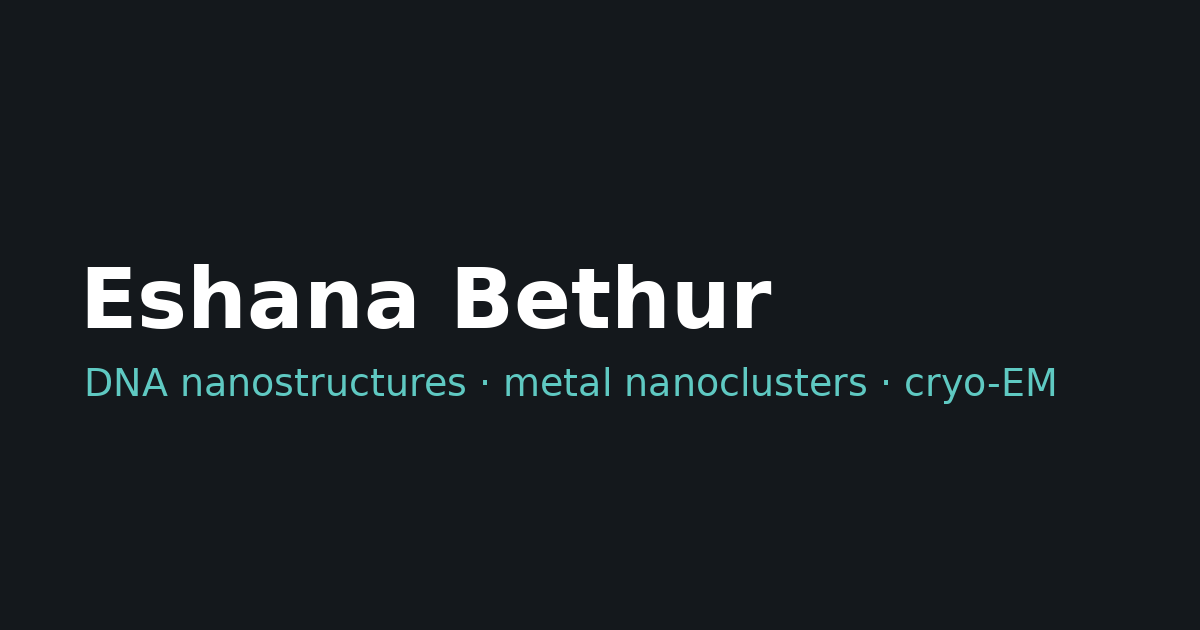
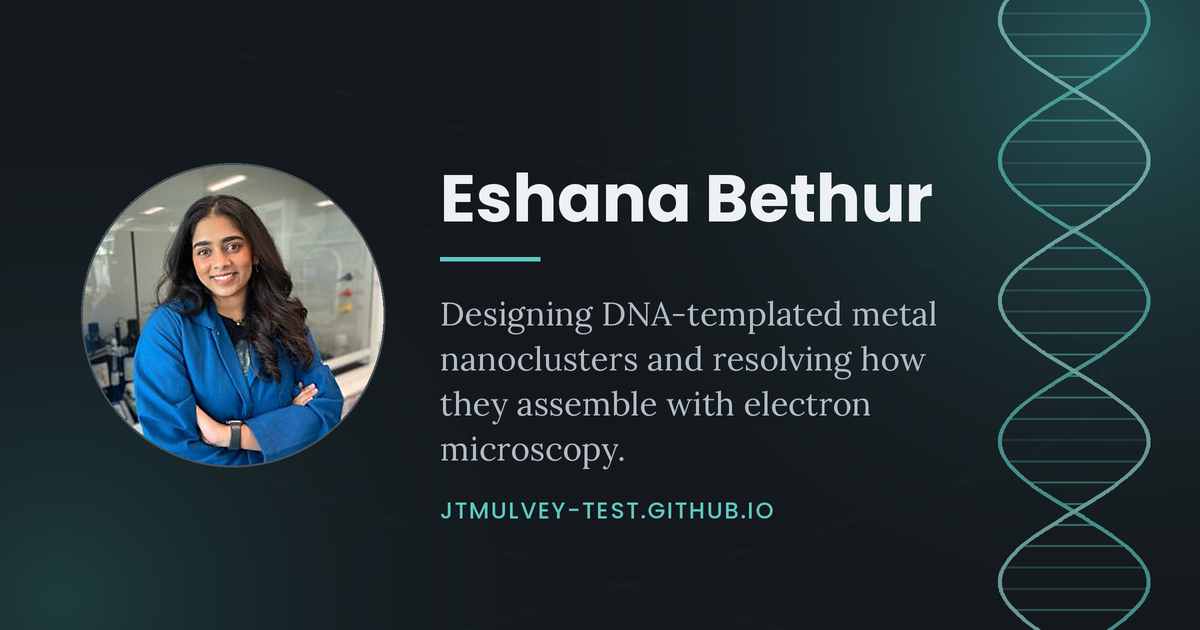
added highlight card

diff --git a/index.html b/index.html
@@ -19,20 +19,20 @@
 <link rel="stylesheet" href="assets/css/layout.css">
 <link rel="stylesheet" href="assets/css/cards.css">
 <link rel="stylesheet" href="assets/css/mobile.css">
-<link rel="canonical" href="https://eshanabethur.github.io/">
+<link rel="canonical" href="https://jtmulvey-test.github.io/">
 <meta property="og:type" content="website">
 <meta property="og:site_name" content="Eshana Bethur">
-<meta property="og:url" content="https://eshanabethur.github.io/">
+<meta property="og:url" content="https://jtmulvey-test.github.io/">
 <meta property="og:title" content="Eshana Bethur — Research">
 <meta property="og:description" content="DNA nanostructures, metal nanoclusters, and cryogenic electron microscopy.">
-<meta property="og:image" content="https://eshanabethur.github.io/assets/img/site/og-image.png">
+<meta property="og:image" content="https://jtmulvey-test.github.io/assets/img/site/og-image.png">
 <meta property="og:image:width" content="1200">
 <meta property="og:image:height" content="630">
 <meta property="og:image:alt" content="Eshana Bethur — DNA nanostructures, metal nanoclusters, cryo-EM.">
 <meta name="twitter:card" content="summary_large_image">
 <meta name="twitter:title" content="Eshana Bethur — Research">
 <meta name="twitter:description" content="DNA nanostructures, metal nanoclusters, and cryogenic electron microscopy.">
-<meta name="twitter:image" content="https://eshanabethur.github.io/assets/img/site/og-image.png">
+<meta name="twitter:image" content="https://jtmulvey-test.github.io/assets/img/site/og-image.png">
 </head>
 <body>
 

diff --git a/contact.html b/contact.html
@@ -19,20 +19,20 @@
 <link rel="stylesheet" href="assets/css/layout.css">
 <link rel="stylesheet" href="assets/css/cards.css">
 <link rel="stylesheet" href="assets/css/mobile.css">
-<link rel="canonical" href="https://eshanabethur.github.io/contact.html">
+<link rel="canonical" href="https://jtmulvey-test.github.io/contact.html">
 <meta property="og:type" content="website">
 <meta property="og:site_name" content="Eshana Bethur">
-<meta property="og:url" content="https://eshanabethur.github.io/contact.html">
+<meta property="og:url" content="https://jtmulvey-test.github.io/contact.html">
 <meta property="og:title" content="Contact — Eshana Bethur">
 <meta property="og:description" content="Get in touch with Eshana Bethur.">
-<meta property="og:image" content="https://eshanabethur.github.io/assets/img/site/og-image.png">
+<meta property="og:image" content="https://jtmulvey-test.github.io/assets/img/site/og-image.png">
 <meta property="og:image:width" content="1200">
 <meta property="og:image:height" content="630">
 <meta property="og:image:alt" content="Eshana Bethur — DNA nanostructures, metal nanoclusters, cryo-EM.">
 <meta name="twitter:card" content="summary_large_image">
 <meta name="twitter:title" content="Contact — Eshana Bethur">
 <meta name="twitter:description" content="Get in touch with Eshana Bethur.">
-<meta name="twitter:image" content="https://eshanabethur.github.io/assets/img/site/og-image.png">
+<meta name="twitter:image" content="https://jtmulvey-test.github.io/assets/img/site/og-image.png">
 </head>
 <body>
 

diff --git a/README.md b/README.md
@@ -117,7 +117,7 @@ Everything below is filler, labelled as such in the corner of each image:
 - **`content/TOC_images/`** — four filler TOC figures.
 - **`data/links.json`** — email, LinkedIn and Scholar are real. Add GitHub or
   ORCID rows if she wants them.
-- **Site URL** — `eshanabethur.github.io` is a guess. Search the HTML files
-  for it once the real repo name is known; it appears in the canonical and
-  Open Graph tags.
-- **`assets/img/site/og-image.png`** — generated placeholder.
+- **Site URL** — the canonical and Open Graph tags point at
+  `jtmulvey-test.github.io`. Search both HTML files for that string when the
+  site moves to its permanent home, and regenerate the link-preview card so
+  the URL printed on it matches.
